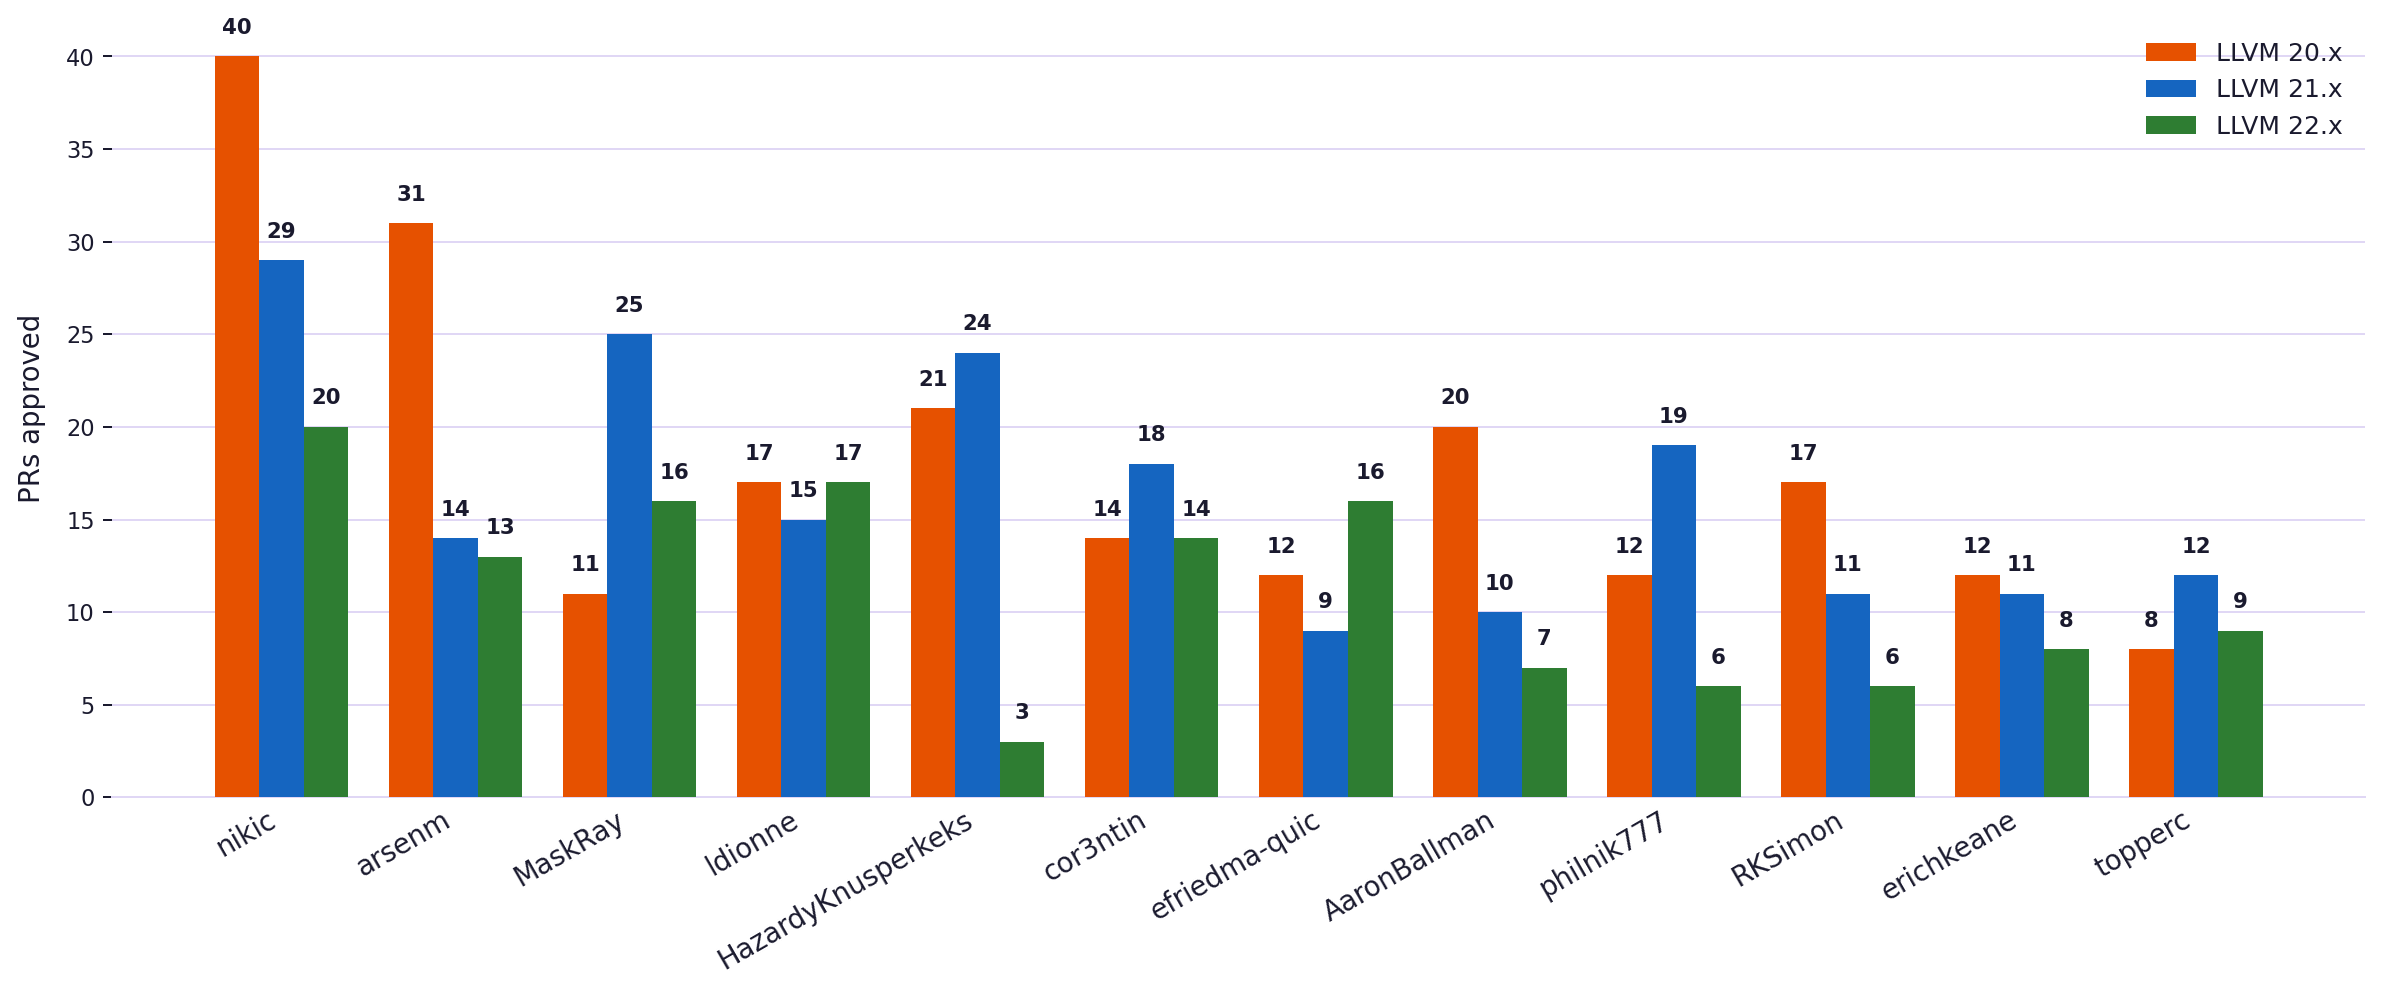
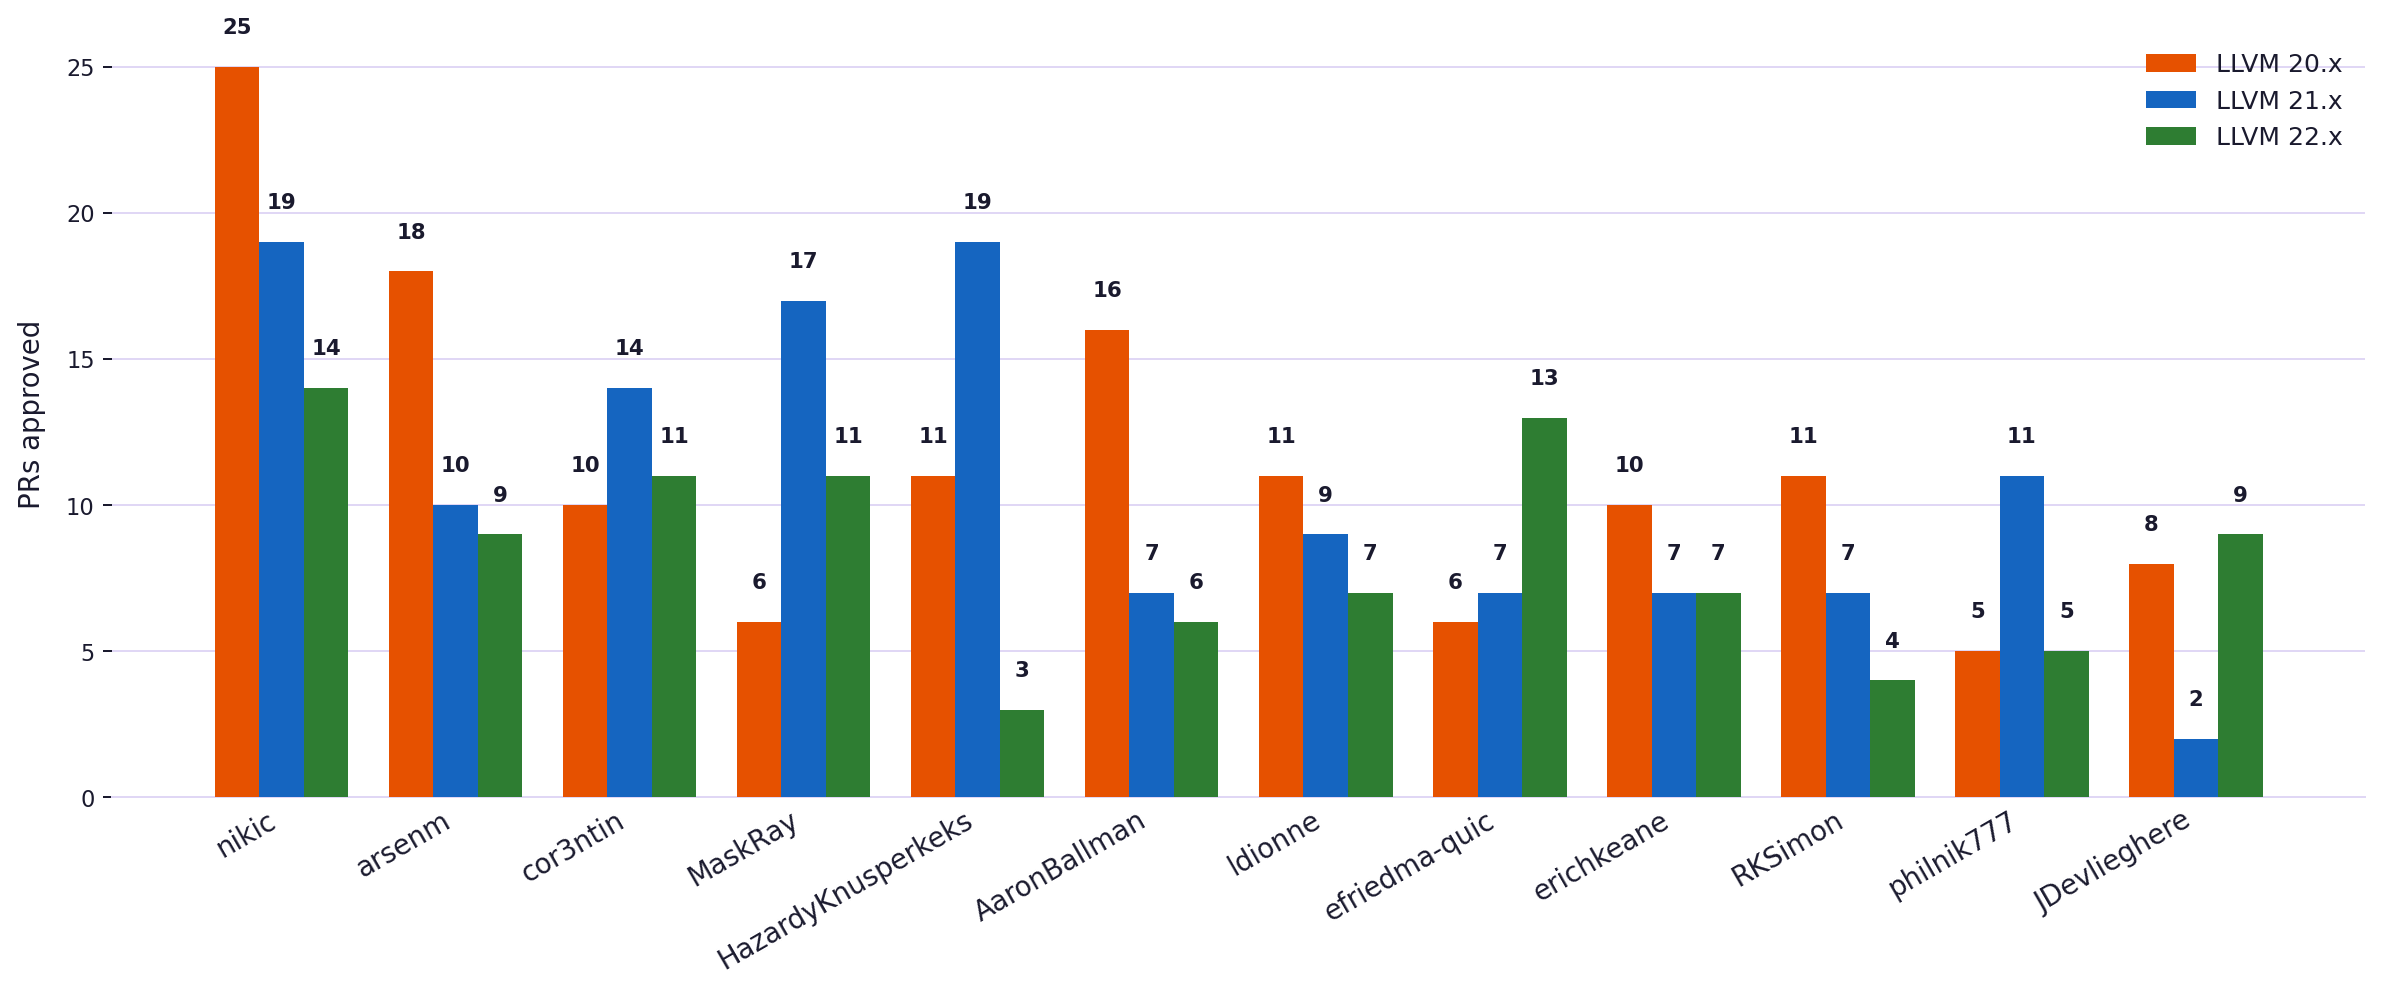
Fix PR double-counting and update slides
Cherry-pick PRs and their main-branch parents were both tagged to the
milestone, inflating all counts. Added dedup.py utility that filters
parent PRs when a cherry-pick exists, applied across all chart and
stats scripts.

Corrected merged counts: 594→406 (20.x), 514→343 (21.x), 459→309 (22.x).
Rejection rate now reads 12%→17%→20%. Regenerated all charts and PDF.

diff --git a/eurollvm26/release-update/scripts/dedup.py b/eurollvm26/release-update/scripts/dedup.py
@@ -1,0 +1,35 @@
+"""
+Deduplication helper for release PR data.
+
+When a fix goes to main and then gets cherry-picked to a release branch,
+both PRs end up tagged with the milestone. This module filters out the
+parent (main-branch) PR so each fix is counted exactly once via its
+cherry-pick PR.
+
+Cherry-pick PRs follow the convention:
+  "release/22.x: <original title> (#<parent_number>)"
+"""
+import json
+import re
+from pathlib import Path
+
+DATA_DIR = Path(__file__).parent / "data"
+
+
+def deduped_merged(release: str, prs: list[dict] | None = None) -> list[dict]:
+    """Return merged PRs for a release with duplicate parent PRs removed."""
+    if prs is None:
+        key = release.replace(".", "_")
+        prs = json.load((DATA_DIR / f"prs_{key}.json").open())
+
+    merged = [p for p in prs if p.get("merged_at")]
+
+    prefix = f"release/{release}:"
+    parent_nums: set[int] = set()
+    for pr in merged:
+        if pr["title"].startswith(prefix):
+            m = re.search(r"\(#(\d+)\)\s*$", pr["title"])
+            if m:
+                parent_nums.add(int(m.group(1)))
+
+    return [p for p in merged if p["number"] not in parent_nums]

diff --git a/eurollvm26/release-update/scripts/gen_reviewer_chart.py b/eurollvm26/release-update/scripts/gen_reviewer_chart.py
@@ -3,6 +3,7 @@ Generate charts showing who merges and who reviews PRs into release branches.
 Infra-only PRs are excluded.
 """
 import json
+from dedup import deduped_merged
 import collections
 import matplotlib
 matplotlib.use("Agg")
@@ -28,10 +29,9 @@ def is_infra(num: int, files: dict) -> bool:
 
 def load(release: str):
     key = release.replace(".", "_")
-    prs     = json.load((DATA_DIR / f"prs_{key}.json").open())
     reviews = json.load((DATA_DIR / f"reviews_{key}.json").open())
     files   = json.load((DATA_DIR / f"files_{key}.json").open())
-    merged_nums = {str(p["number"]) for p in prs if p.get("merged_at")}
+    merged_nums = {str(p["number"]) for p in deduped_merged(release)}
     return merged_nums, reviews, files
 
 

diff --git a/eurollvm26/release-update/scripts/gen_phase_line_chart.py b/eurollvm26/release-update/scripts/gen_phase_line_chart.py
@@ -4,6 +4,7 @@ X-axis = milestone (RC1, RC2, …, Final, 1.1, 1.2, …)
 Y-axis = PRs merged in the window *ending* at that milestone.
 """
 import json
+from dedup import deduped_merged
 import matplotlib
 matplotlib.use("Agg")
 import matplotlib.pyplot as plt
@@ -79,9 +80,7 @@ def parse_dt(s: str) -> datetime:
 
 def bucket_prs(release: str) -> dict[str, int]:
     """Return {label: count} for each window in this release."""
-    key   = release.replace(".", "_")
-    prs   = json.load((DATA_DIR / f"prs_{key}.json").open())
-    merged_prs = [pr for pr in prs if pr.get("merged_at")]
+    merged_prs = deduped_merged(release)
 
     milestones = MILESTONES[release]
     # Build list of (label, start_dt, end_dt)

diff --git a/eurollvm26/release-update/scripts/gen_llvm_breakdown.py b/eurollvm26/release-update/scripts/gen_llvm_breakdown.py
@@ -11,6 +11,7 @@ and CodeGen). This gives a more honest picture than "winner takes all".
 """
 import json
 import collections
+from dedup import deduped_merged
 import matplotlib
 matplotlib.use("Agg")
 import matplotlib.pyplot as plt
@@ -48,9 +49,8 @@ BACKEND_IGNORE = {"TargetLoweringObjectFile.cpp", "CMakeLists.txt"}
 
 def load(release: str):
     key   = release.replace(".", "_")
-    prs   = json.load((DATA_DIR / f"prs_{key}.json").open())
     files = json.load((DATA_DIR / f"files_{key}.json").open())
-    merged = [pr for pr in prs if pr.get("merged_at")]
+    merged = deduped_merged(release)
     return merged, {int(k): v for k, v in files.items()}
 
 

diff --git a/eurollvm26/release-update/scripts/gen_subproject_charts.py b/eurollvm26/release-update/scripts/gen_subproject_charts.py
@@ -11,6 +11,7 @@ Outputs:
 """
 import json
 import collections
+from dedup import deduped_merged
 import matplotlib
 matplotlib.use("Agg")
 import matplotlib.pyplot as plt
@@ -72,10 +73,8 @@ def subproject_for_pr(paths: list[str]) -> str:
 
 def load_data(release: str):
     key = release.replace(".", "_")
-    prs   = json.load((DATA_DIR / f"prs_{key}.json").open())
     files = json.load((DATA_DIR / f"files_{key}.json").open())
-    # files keys are strings
-    merged = [pr for pr in prs if pr.get("merged_at")]
+    merged = deduped_merged(release)
     return merged, {int(k): v for k, v in files.items()}
 
 

diff --git a/eurollvm26/release-update/scripts/gen_clang_breakdown.py b/eurollvm26/release-update/scripts/gen_clang_breakdown.py
@@ -9,6 +9,7 @@ A PR can appear in multiple buckets (e.g. touching both Sema and AST).
 """
 import json
 import collections
+from dedup import deduped_merged
 import matplotlib
 matplotlib.use("Agg")
 import matplotlib.pyplot as plt
@@ -46,9 +47,8 @@ SUBSYSTEM_MAP = [
 
 def load(release: str):
     key   = release.replace(".", "_")
-    prs   = json.load((DATA_DIR / f"prs_{key}.json").open())
     files = json.load((DATA_DIR / f"files_{key}.json").open())
-    merged = [pr for pr in prs if pr.get("merged_at")]
+    merged = deduped_merged(release)
     return merged, {int(k): v for k, v in files.items()}
 
 

diff --git a/eurollvm26/release-update/scripts/fetch_release_data.py b/eurollvm26/release-update/scripts/fetch_release_data.py
@@ -163,7 +163,8 @@ def phase_for(merged_at: str | None, cfg: dict) -> str | None:
 
 
 def compute_stats(release: str, prs: list[dict], cfg: dict) -> dict:
-    merged   = [pr for pr in prs if pr["merged_at"]]
+    from dedup import deduped_merged
+    merged   = deduped_merged(release, prs)
     rejected = [pr for pr in prs if not pr["merged_at"] and pr["state"] == "closed"]
 
     phase_counts = {p: 0 for p in PHASES}

diff --git a/eurollvm26/release-update/slides.md b/eurollvm26/release-update/slides.md
@@ -76,14 +76,14 @@ The docs are explicit that new features not completed by RC1 will be removed or 
 
 | Release | PRs Merged | PRs Rejected | Issues |
 |---------|-----------|--------------|--------|
-| 20.x    | 594       | 53           | 125    |
-| 21.x    | 514       | 68           | 122    |
-| 22.x    | 459       | 76           | 89     |
+| 20.x    | 406       | 53           | 125    |
+| 21.x    | 343       | 68           | 122    |
+| 22.x    | 309       | 76           | 89     |
 
-Rejection rate rising: **8%** → **12%** → **14%**
+Rejection rate rising: **12%** → **17%** → **20%**
 
 Note:
-These numbers are from the LLVM GitHub milestones, fetched fresh. Rejections have been climbing — 53 → 68 → 76 — which reflects us being stricter with the acceptance criteria over time. The merge counts going down is partly tighter gatekeeping; 22.x is through 1.2 point releases. Issues tracked under the milestone jumped in 22.x; hard to know if that's more problems being filed or more active milestone usage.
+These numbers are from the LLVM GitHub milestones, deduplicated so cherry-picks and their main-branch parents are counted only once. Rejections have been climbing — 53 → 68 → 76 — which reflects stricter acceptance criteria. Issues tracked under the milestone jumped in 22.x; hard to know if that's more problems being filed or more active milestone usage.
 
 ---
 
@@ -91,7 +91,7 @@ These numbers are from the LLVM GitHub milestones, fetched fresh. Rejections hav
 
 <img src="phase_line_chart.png" style="width:100%;max-height:55vh;object-fit:contain;" />
 
-RC1→RC2 always **3× busier** than Branch→RC1 &nbsp;·&nbsp; RC3→Final: **16 PRs** (20.x) vs **62–66** (21.x / 22.x)
+RC1→RC2 always **3× busier** than Branch→RC1 &nbsp;·&nbsp; RC3→Final: **9 PRs** (20.x) vs **42–46** (21.x / 22.x)
 
 Note:
 RC1→RC2 is the busiest window across all three releases — 115-131 PRs in roughly two weeks. The lines track closely until Final, where 20.x drops hard to just 16 PRs (we held the line). 21.x and 22.x both had 62-66 PRs in that final window — a lot of risk going in very late. The point release tail is interesting: 20.x stays elevated through 1.3 before fading, 21.x drops sharply after 1.1. 22.x through 1.3 is running at 38–44 PRs per point release — similar pace to 21.x early on.
@@ -144,7 +144,7 @@ Backends (llvm/lib/Target) completely dominate — the majority of LLVM Core bac
 
 <img src="approver_chart.png" style="width:100%;max-height:55vh;object-fit:contain;" />
 
-**nikic** alone: 89 PRs across 3 releases &nbsp;·&nbsp; top 5 reviewers handle the majority of all approvals
+**nikic** alone: 58 PRs across 3 releases &nbsp;·&nbsp; top 5 reviewers handle the majority of all approvals
 
 Note:
 These are the people leaving approving reviews — the actual technical gatekeepers deciding whether a patch is safe to backport. nikic leads by a wide margin across all three releases (89 total). arsenm, ldionne, HazardyKnusperkeks (clang-format), MaskRay, and cor3ntin are all consistently present. This group is different from the mergers — these are domain experts doing the substantive review work, while the RM handles the mechanics of merging. The overlap between the two lists is small, which is healthy, but it means the review pool and the merge pool are both narrow. If nikic is unavailable, a significant chunk of Clang and middle-end reviews stalls.
@@ -184,7 +184,7 @@ The 6-month rhythm is actually one of the strongest parts of the current process
 Note:
 These are the problems we as release managers actually feel every release.
 
-Inclusion criteria: The docs say "There are no official release qualification criteria." We invented "very safe" but that's not a spec — two RMs can reach different verdicts on the same patch. The rising rejection rate (8% → 14%) shows we're trying to enforce something, but contributors deserve a clearer answer than our gut feeling.
+Inclusion criteria: The docs say "There are no official release qualification criteria." We invented "very safe" but that's not a spec — two RMs can reach different verdicts on the same patch. The rising rejection rate (12% → 20%) shows we're trying to enforce something, but contributors deserve a clearer answer than our gut feeling.
 
 Flaky CI: We need passing binary builds before we can ship. When CI is unreliable the release slips even when the code is done. Binaries sometimes follow the tag by days, which creates "mutable releases" that downstream consumers can't rely on.
 
